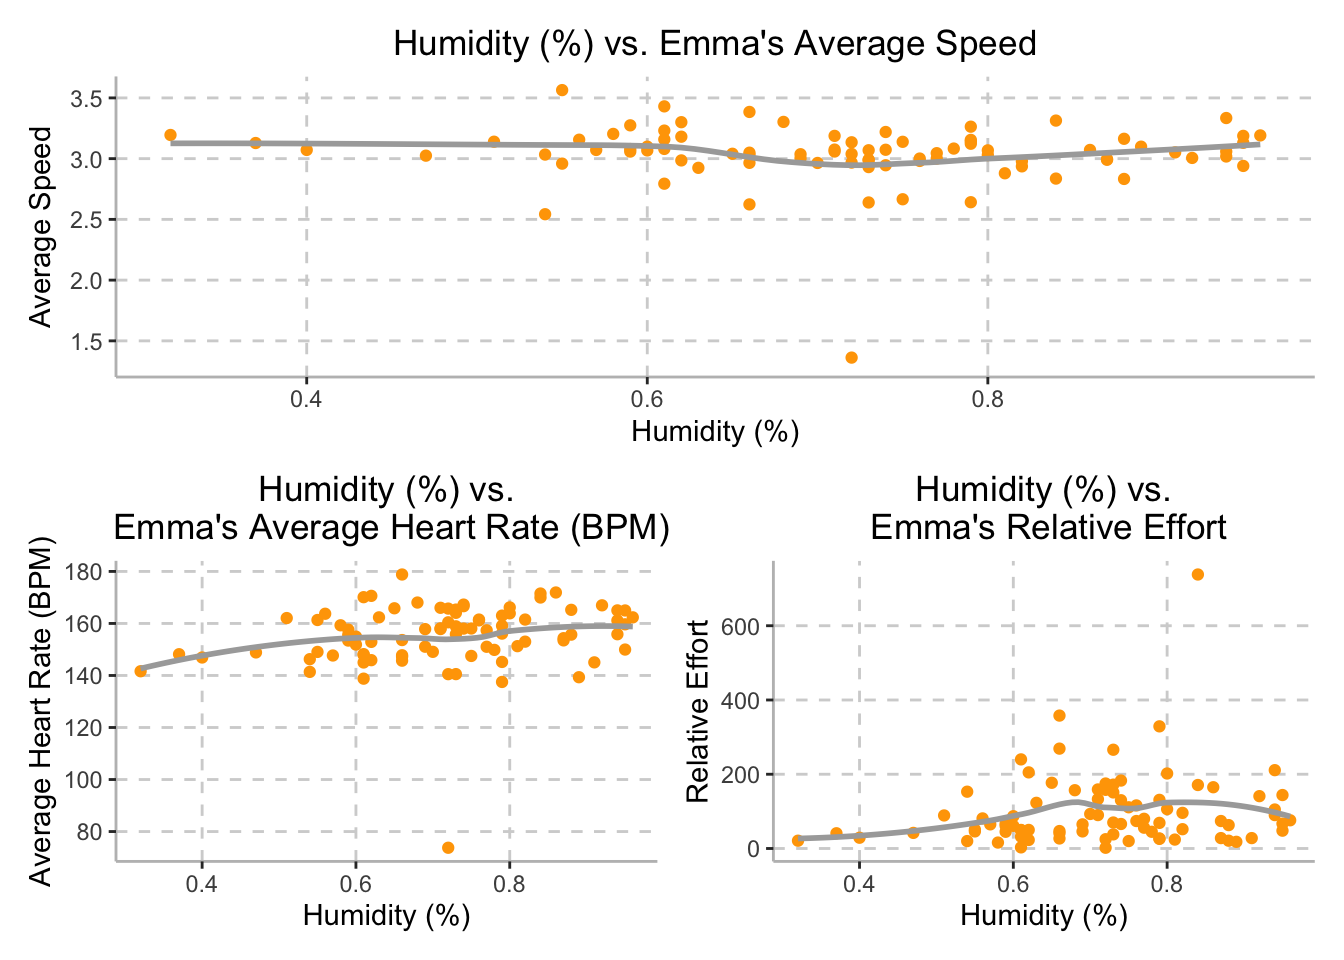
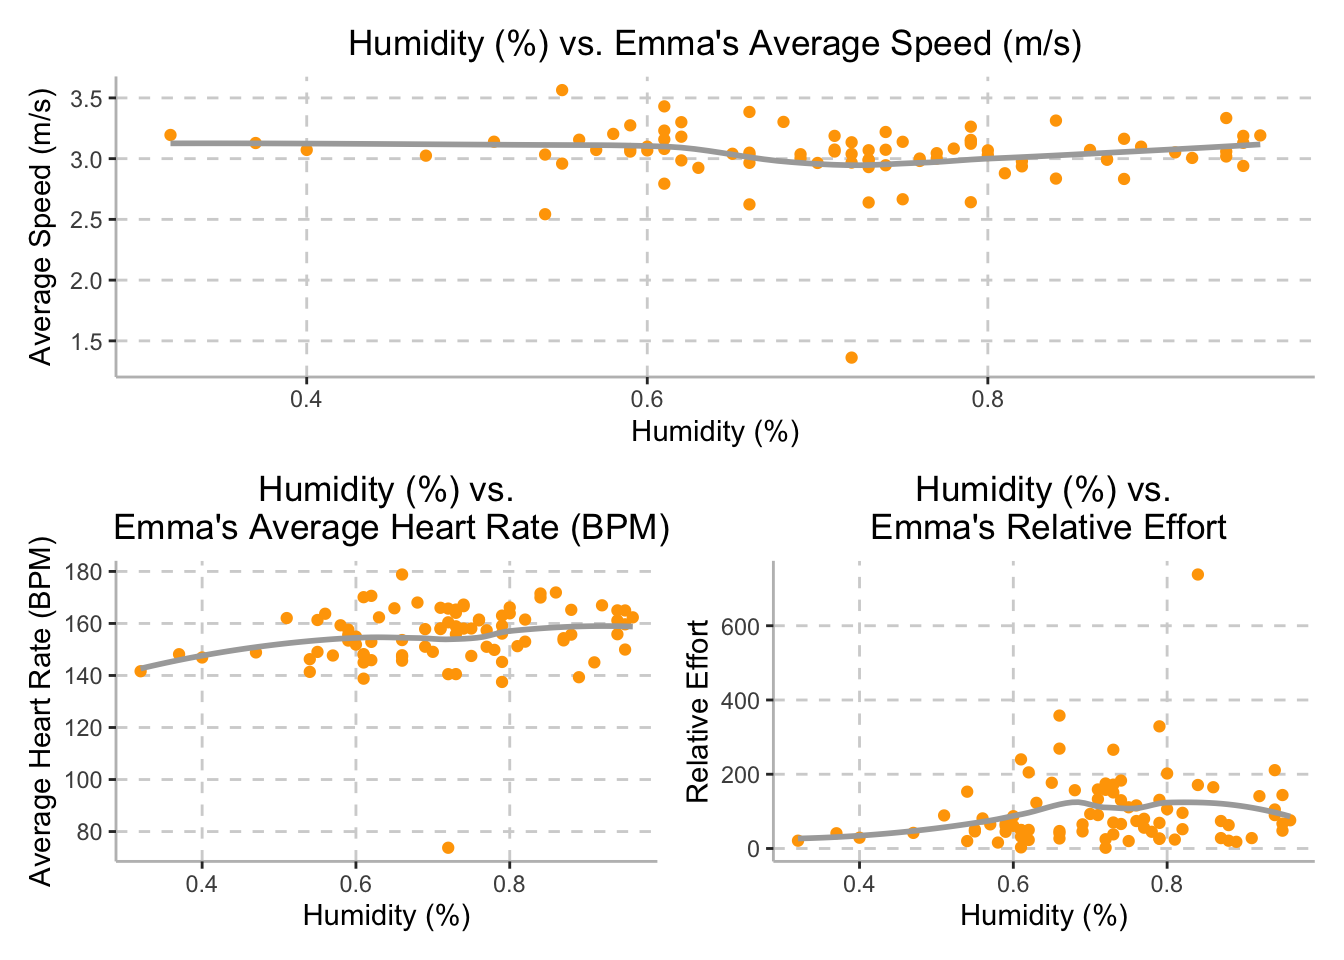
Described data, formatting edits

Changed region(s): [[0.25, 0.0312, 0.8125, 0.0625], [0.0, 0.0938, 0.0625, 0.375]]

diff --git a/final_report.html b/final_report.html
@@ -485,33 +485,35 @@ runs from July 23, 2020 to November 6, 2022 using the
 <code>read_csv</code> function.</p>
 <pre class="r"><code>training_raw &lt;- read_csv(&quot;activities/activities.csv&quot;) %&gt;% 
   janitor::clean_names()</code></pre>
-<p>The raw data contains blah blah</p>
+<p>The raw data contains <strong>335 observations</strong> and
+<strong>84 variables</strong>. Variables include data regarding activity
+date and type, trail/route information, equipment use, physical
+responses to training (heart rate, cadence, etc.), and weather. As is,
+these data were not tidy… Let’s tidy!</p>
 </div>
 <div id="data-cleaning" class="section level3">
-<h3><em>Data Cleaning</em></h3>
+<h3>Data Cleaning</h3>
 <p>After importing, the data frame was then cleaned to include
 activities from the start of marathon training (April 4, 2022) to the
 day of the New York City Marathon (November 6, 2022). The data was
-filtered to only include observations from ‘activity_type’ that were
-classified as ‘Run’. From this, the following 22 variables were selected
-to be included in this data set: activity_id, activity_date,
-activity_name, activity_description, elapsed_time_6, distance_7,
-max_heart_rate_8, relative_effort_9, max_speed, average_speed,
-elevation_gain, elevation_loss, max_grade, average_grade, max_cadence,
-average_cadence, average_heart_rate, calories, weather_temperature,
-dewpoint, humidity,and wind_speed.</p>
+filtered to only include observations from <code>activity_type</code>
+that were classified as ‘Run’. We selected 22 relevant variables
+(summarized below).</p>
 <p>Due to Emma’s marathon training beginning April 4th, 2022, the
-‘activity_id’ was used in order to filter any training prior to this.
-Following this, the variable ‘activity_date’ was separated into two
-variables:the date on which the run occurred (‘date’) as well as the
-time when the run began (‘time’). The ‘elapsed_time_6’ variable was
-converted from seconds to minutes (‘elapsed_time_min’). In addition to
-this, the variables names for distance_7, max_heart_rate_8, and
-relative_effort_9 were changed to distance_km, max_heart_rate, and
-relative_effort.</p>
-<p>A new data frame, ‘activities_summaries’ was created in order to
-include the written accounts from each of Emma’s runs, including
-variables ‘activity_name’ and ‘activity_description’.</p>
+<code>activity_id</code> was used in order to filter any training prior
+to this. Following this, the variable <code>activity_date</code> was
+separated into two variables: the date on which the run occurred
+(<code>date</code>) as well as the time when the run began
+(<code>time</code>). The <code>elapsed_time_6</code> variable was
+converted from seconds to minutes (<code>elapsed_time_min</code>). In
+addition to this, the variables names for <code>distance_7</code>,
+<code>max_heart_rate_8</code>, and <code>relative_effort_9</code> were
+changed to <code>distance_km</code>, <code>max_heart_rate</code>, and
+<code>relative_effort.</code></p>
+<p>A new data frame, <code>activities_summaries</code> was created in
+order to include the written accounts from each of Emma’s runs,
+including variables <code>activity_name</code> and
+<code>activity_description</code>.</p>
 <pre class="r"><code>training_summary = 
   training_raw %&gt;% 
   filter(activity_type == &quot;Run&quot;) %&gt;%
@@ -548,26 +550,41 @@ characteristics:</p>
 <li><code>activity_id</code>: Unique activity identifier</li>
 <li><code>date</code>: Date of activity (YYYY-MM-DD)</li>
 <li><code>time</code>: Time of activity</li>
-<li><code>distance_km</code>: Distance ran in km, mean = NA, range</li>
+<li><code>distance_km</code>: Distance ran (km), mean = 8.9215741,
+range</li>
 <li><code>elapsed_time_min</code>: Time spent running in minutes, mean =
+54.4388889</li>
+<li><code>max_speed</code>: Maximum running speed (meters/second), mean
+= 7.4808794</li>
+<li><code>average_speed</code>: Average speed (meters/second) during the
+activity, mean = 3.037298</li>
+<li><code>max_heart_rate</code>: Maximum heart rate (beats per minute)
+during the activity, mean = 176.4537037</li>
+<li><code>average_heart_rate</code>: Average heart rate during the
+activity, mean = 154.6877133</li>
+<li><code>relative_effort</code>: Relative effort calculated using heart
+rate data, mean = 95.462963</li>
+<li><code>elevation_gain</code>: Elevation gained during the activity,
+mean = 58.0976234</li>
+<li><code>elevation_loss</code>: Elevation lost during the activity,
+mean = NA</li>
+<li><code>max_grade</code>: Maximum grade during the activity, mean =
+24.2052355</li>
+<li><code>average_grade</code>: Average grade during the activity, mean
+= -3.0404352^{-4}</li>
+<li><code>max_cadence</code>: Maximum cadence (steps per minute) during
+the activity, mean = 89.1296296</li>
+<li><code>average_cadence</code>: Average cadence (steps per minute)
+during the activity, mean = 79.7518814</li>
+<li><code>calories</code>: Calories burned during the activity, mean =
+454.2592593</li>
+<li><code>weather_temperature</code>: Temperature (Celsius) during the
+activity, mean = 7.4808794</li>
+<li><code>dewpoint</code>: Dew point during the activity, mean = NA</li>
+<li><code>humidity</code>: Humidity (%) during the activity, mean =
 NA</li>
-<li><code>max_speed</code>: Maximum running pace minutes/km, mean =
-NA</li>
-<li><code>average_speed</code>:</li>
-<li><code>max_heart_rate</code>:</li>
-<li><code>average_heart_rate</code>:</li>
-<li><code>relative_effort</code>:</li>
-<li><code>elevation_gain</code>:</li>
-<li><code>elevation_loss</code>:</li>
-<li><code>max_grade</code>:</li>
-<li><code>average_grade</code>:</li>
-<li><code>max_cadence</code>:</li>
-<li><code>average_cadence</code>:</li>
-<li><code>calories</code>:</li>
-<li><code>weather_temperature</code>:</li>
-<li><code>dewpoint</code>:</li>
-<li><code>humidity</code>:</li>
-<li><code>wind_speed</code>:</li>
+<li><code>wind_speed</code>: Wind speed in meters per second during the
+activity, mean = NA</li>
 </ul>
 </div>
 </div>
@@ -637,7 +654,7 @@ the NYCM.</p>
 <p>The density plot above illustrates the mileage at which Emma run’s
 most often during her training period. The plot peaks at a distance of
 approximately 7km, indicating that 7km is the length of most of Emma’s
-runs during heer training period.</p>
+runs during her training period.</p>
 </div>
 <div id="temperature-vs.-average-speed" class="section level3">
 <h3>Temperature vs. Average Speed</h3>
@@ -646,9 +663,9 @@ runs during heer training period.</p>
   geom_point(color = c(&quot;#FFA500&quot;)) +
   geom_smooth(se = FALSE, color = &quot;dark grey&quot;) + 
     labs(
-    title = &quot;Temperature (C) vs. Emma&#39;s Average Speed&quot;,
+    title = &quot;Temperature (C) vs. Emma&#39;s Average Speed (m/s)&quot;,
     x = &quot;Temperature (C)&quot;, 
-    y = &quot;Average Speed&quot;) + 
+    y = &quot;Average Speed (m/s)&quot;) + 
   scale_x_continuous(breaks = scales::pretty_breaks(n = 5)) + 
   scale_y_continuous(breaks = scales::pretty_breaks(n = 5)) +
   theme(axis.line = element_line(color = &quot;grey&quot;), 
@@ -672,7 +689,7 @@ Celsius and 27.89 degrees Celsius.</p>
   geom_smooth(se = FALSE, color = &quot;dark grey&quot;) + 
     labs(
     x = &quot;Temperature (C)&quot;, 
-    y = &quot;Average Speed&quot;) + 
+    y = &quot;Average Speed (m/s)&quot;) + 
   scale_x_continuous(breaks = scales::pretty_breaks(n = 5)) + 
   scale_y_continuous(breaks = scales::pretty_breaks(n = 5)) +
   theme(axis.line = element_line(color = &quot;grey&quot;), 
@@ -680,7 +697,7 @@ Celsius and 27.89 degrees Celsius.</p>
         legend.position = &quot;none&quot;, 
         panel.grid.major = element_line(color = &quot;light grey&quot;, linetype = &quot;dashed&quot;),
         plot.title = element_text(hjust = 0.5)) + 
-  ggtitle(&quot;Temperature (C) vs. Emma&#39;s Average Speed&quot;)
+  ggtitle(&quot;Temperature (C) vs. Emma&#39;s Average Speed (m/s)&quot;)
 
 temp_avg_hrt = 
   tidy_training %&gt;% 
@@ -749,7 +766,7 @@ relative effort averaged around 150.</p>
   geom_smooth(se = FALSE, color = &quot;dark grey&quot;) + 
     labs(
     x = &quot;Humidity (%)&quot;, 
-    y = &quot;Average Speed&quot;) + 
+    y = &quot;Average Speed (m/s)&quot;) + 
   scale_x_continuous(breaks = scales::pretty_breaks(n = 5)) + 
   scale_y_continuous(breaks = scales::pretty_breaks(n = 5)) +
   theme(axis.line = element_line(color = &quot;grey&quot;), 
@@ -757,7 +774,7 @@ relative effort averaged around 150.</p>
         legend.position = &quot;none&quot;, 
         panel.grid.major = element_line(color = &quot;light grey&quot;, linetype = &quot;dashed&quot;),
         plot.title = element_text(hjust = 0.5)) + 
-  ggtitle(&quot;Humidity (%) vs. Emma&#39;s Average Speed&quot;)
+  ggtitle(&quot;Humidity (%) vs. Emma&#39;s Average Speed (m/s)&quot;)
 
 humid_avg_hrt = 
   tidy_training %&gt;% 
@@ -886,8 +903,8 @@ marathon_geo %&gt;%
                              &quot;&lt;br&gt;Cadence:&quot;, cadence,
                             &quot;&lt;br&gt;Altitude:&quot;, enhanced_altitude)) %&gt;% 
   addProviderTiles(providers$CartoDB.Positron)</code></pre>
-<div id="htmlwidget-df3c8a1f573dae842df6" style="width:672px;height:480px;" class="leaflet html-widget"></div>
-<script type="application/json" data-for="htmlwidget-df3c8a1f573dae842df6">{"x":{"options":{"crs":{"crsClass":"L.CRS.EPSG3857","code":null,"proj4def":null,"projectedBounds":null,"options":{}}},"calls":[{"method":"addTiles","args":["https://{s}.tile.openstreetmap.org/{z}/{x}/{y}.png",null,null,{"minZoom":0,"maxZoom":18,"tileSize":256,"subdomains":"abc","errorTileUrl":"","tms":false,"noWrap":false,"zoomOffset":0,"zoomReverse":false,"opacity":1,"zIndex":1,"detectRetina":false,"attribution":"&copy; <a href=\"https://openstreetmap.org\">OpenStreetMap<\/a> contributors, <a href=\"https://creativecommons.org/licenses/by-sa/2.0/\">CC-BY-SA<\/a>"}]},{"method":"addCircleMarkers","args":[[40.6104348705628,40.7042159239592,40.7164656348145,40.728277819874,40.740826228118,40.7491534880795,40.7558571904419,40.7777123779879,40.7903228550433,40.8023561141454,40.6192627834549,40.8118997489457,40.8102504578455,40.8001325806757,40.7882020822061,40.7763461387941,40.766959590201,40.770384692587,null,40.6444014760309,40.6557787290627,40.6671305434582,40.6794894834151,40.6876716191673,40.6921380146503,40.6043989839213],[-74.0346232919979,-73.9608535200188,-73.9589246148317,-73.9524508345938,-73.9525773309703,-73.9450712946021,-73.9528505667326,-73.9487948260759,-73.939629788009,-73.9298666665563,-74.0288426203294,-73.928230043045,-73.9394263029525,-73.9473303446644,-73.9557053759358,-73.966941702771,-73.9756988926056,-73.9788563751305,null,-74.0148388704929,-74.0029969833497,-73.9916699058621,-73.9818277620092,-73.9710569978992,-73.9571167532644,-74.0517789316213],7,null,null,{"interactive":true,"className":"","stroke":true,"color":"orange","weight":5,"opacity":0.5,"fill":true,"fillColor":"orange","fillOpacity":0.75},null,null,["Mile: 1 <br>Speed: 7.16634034234234 <br>HR: 169.648648648649 <br>Cadence: 79.945945945946 <br>Altitude: 55.3783783783784","Mile: 10 <br>Speed: 5.91045904545455 <br>HR: 173.840909090909 <br>Cadence: 78.7045454545455 <br>Altitude: 33.7590909090909","Mile: 11 <br>Speed: 6.16624646456693 <br>HR: 177.094488188976 <br>Cadence: 82.5984251968504 <br>Altitude: 16.0708661417323","Mile: 12 <br>Speed: 6.49777232743363 <br>HR: 177.964601769911 <br>Cadence: 80.9469026548673 <br>Altitude: 18.8495575221239","Mile: 13 <br>Speed: 6.69400279464286 <br>HR: 178.732142857143 <br>Cadence: 82.5803571428571 <br>Altitude: 12.6339285714286","Mile: 14 <br>Speed: 5.6681484084507 <br>HR: 176.633802816901 <br>Cadence: 82.3943661971831 <br>Altitude: 32.8197183098592","Mile: 15 <br>Speed: 3.31547001376147 <br>HR: 139.56880733945 <br>Cadence: 79.0596330275229 <br>Altitude: 24.3201834862385","Mile: 17 <br>Speed: 6.22130553389831 <br>HR: 171.686440677966 <br>Cadence: 82.7966101694915 <br>Altitude: 42.0186440677966","Mile: 18 <br>Speed: 5.64340035384615 <br>HR: 150.307692307692 <br>Cadence: 72.3923076923077 <br>Altitude: 23.2507692307692","Mile: 19 <br>Speed: 5.27883065625 <br>HR: 145.89375 <br>Cadence: 71.54375 <br>Altitude: 24.7425","Mile: 2 <br>Speed: 6.9439558440367 <br>HR: 173 <br>Cadence: 80.8623853211009 <br>Altitude: 28.9633027522936","Mile: 20 <br>Speed: 5.93609676258993 <br>HR: 160.647482014388 <br>Cadence: 81.4244604316547 <br>Altitude: 13.6474820143885","Mile: 21 <br>Speed: 6.25834048854962 <br>HR: 159.206106870229 <br>Cadence: 81.8015267175573 <br>Altitude: 27.1435114503817","Mile: 22 <br>Speed: 5.80403946616541 <br>HR: 167.353383458647 <br>Cadence: 80.4586466165414 <br>Altitude: 46.0736842105263","Mile: 23 <br>Speed: 5.55055204511278 <br>HR: 172.233082706767 <br>Cadence: 76.6842105263158 <br>Altitude: 73.8285714285714","Mile: 24 <br>Speed: 5.43006440875912 <br>HR: 173.737226277372 <br>Cadence: 71.2116788321168 <br>Altitude: 26.043795620438","Mile: 25 <br>Speed: 5.92434019254658 <br>HR: 176.484472049689 <br>Cadence: 80.0683229813665 <br>Altitude: 7.53540372670807","Mile: 26-Finish <br>Speed: 6.85462368518519 <br>HR: 183.296296296296 <br>Cadence: 86.1481481481482 <br>Altitude: 19.3185185185185","Mile: 3 <br>Speed: NA <br>HR: 174.938053097345 <br>Cadence: 80.4070796460177 <br>Altitude: 33.7256637168142","Mile: 4 <br>Speed: 6.94028204672897 <br>HR: 175.383177570093 <br>Cadence: 80.4485981308411 <br>Altitude: 27.985046728972","Mile: 5 <br>Speed: 6.79859621052632 <br>HR: 172.69298245614 <br>Cadence: 81.3245614035088 <br>Altitude: 14.8368421052632","Mile: 6 <br>Speed: 6.84808492982456 <br>HR: 175.333333333333 <br>Cadence: 81.780701754386 <br>Altitude: 26.0666666666667","Mile: 7 <br>Speed: 6.65007464705882 <br>HR: 175.352941176471 <br>Cadence: 79.4705882352941 <br>Altitude: 22.6436974789916","Mile: 8 <br>Speed: 6.82514246280992 <br>HR: 177.280991735537 <br>Cadence: 81.7851239669422 <br>Altitude: 42.1074380165289","Mile: 9 <br>Speed: 6.75896050862069 <br>HR: 177.534482758621 <br>Cadence: 82.5948275862069 <br>Altitude: 37.3586206896552","Mile: Start <br>Speed: 6.53191371774194 <br>HR: 168.548387096774 <br>Cadence: 80.9112903225806 <br>Altitude: 68.2774193548387"],null,["1","10","11","12","13","14","15","17","18","19","2","20","21","22","23","24","25","26-Finish","3","4","5","6","7","8","9","Start"],{"interactive":false,"permanent":false,"direction":"auto","opacity":1,"offset":[0,0],"textsize":"10px","textOnly":false,"className":"","sticky":true},null]},{"method":"addProviderTiles","args":["CartoDB.Positron",null,null,{"errorTileUrl":"","noWrap":false,"detectRetina":false}]}],"limits":{"lat":[40.6043989839213,40.8118997489457],"lng":[-74.0517789316213,-73.928230043045]}},"evals":[],"jsHooks":[]}</script>
+<div id="htmlwidget-0f07be8e751d6cec8391" style="width:672px;height:480px;" class="leaflet html-widget"></div>
+<script type="application/json" data-for="htmlwidget-0f07be8e751d6cec8391">{"x":{"options":{"crs":{"crsClass":"L.CRS.EPSG3857","code":null,"proj4def":null,"projectedBounds":null,"options":{}}},"calls":[{"method":"addTiles","args":["https://{s}.tile.openstreetmap.org/{z}/{x}/{y}.png",null,null,{"minZoom":0,"maxZoom":18,"tileSize":256,"subdomains":"abc","errorTileUrl":"","tms":false,"noWrap":false,"zoomOffset":0,"zoomReverse":false,"opacity":1,"zIndex":1,"detectRetina":false,"attribution":"&copy; <a href=\"https://openstreetmap.org\">OpenStreetMap<\/a> contributors, <a href=\"https://creativecommons.org/licenses/by-sa/2.0/\">CC-BY-SA<\/a>"}]},{"method":"addCircleMarkers","args":[[40.6104348705628,40.7042159239592,40.7164656348145,40.728277819874,40.740826228118,40.7491534880795,40.7558571904419,40.7777123779879,40.7903228550433,40.8023561141454,40.6192627834549,40.8118997489457,40.8102504578455,40.8001325806757,40.7882020822061,40.7763461387941,40.766959590201,40.770384692587,null,40.6444014760309,40.6557787290627,40.6671305434582,40.6794894834151,40.6876716191673,40.6921380146503,40.6043989839213],[-74.0346232919979,-73.9608535200188,-73.9589246148317,-73.9524508345938,-73.9525773309703,-73.9450712946021,-73.9528505667326,-73.9487948260759,-73.939629788009,-73.9298666665563,-74.0288426203294,-73.928230043045,-73.9394263029525,-73.9473303446644,-73.9557053759358,-73.966941702771,-73.9756988926056,-73.9788563751305,null,-74.0148388704929,-74.0029969833497,-73.9916699058621,-73.9818277620092,-73.9710569978992,-73.9571167532644,-74.0517789316213],7,null,null,{"interactive":true,"className":"","stroke":true,"color":"orange","weight":5,"opacity":0.5,"fill":true,"fillColor":"orange","fillOpacity":0.75},null,null,["Mile: 1 <br>Speed: 7.16634034234234 <br>HR: 169.648648648649 <br>Cadence: 79.945945945946 <br>Altitude: 55.3783783783784","Mile: 10 <br>Speed: 5.91045904545455 <br>HR: 173.840909090909 <br>Cadence: 78.7045454545455 <br>Altitude: 33.7590909090909","Mile: 11 <br>Speed: 6.16624646456693 <br>HR: 177.094488188976 <br>Cadence: 82.5984251968504 <br>Altitude: 16.0708661417323","Mile: 12 <br>Speed: 6.49777232743363 <br>HR: 177.964601769911 <br>Cadence: 80.9469026548673 <br>Altitude: 18.8495575221239","Mile: 13 <br>Speed: 6.69400279464286 <br>HR: 178.732142857143 <br>Cadence: 82.5803571428571 <br>Altitude: 12.6339285714286","Mile: 14 <br>Speed: 5.6681484084507 <br>HR: 176.633802816901 <br>Cadence: 82.3943661971831 <br>Altitude: 32.8197183098592","Mile: 15 <br>Speed: 3.31547001376147 <br>HR: 139.56880733945 <br>Cadence: 79.0596330275229 <br>Altitude: 24.3201834862385","Mile: 17 <br>Speed: 6.22130553389831 <br>HR: 171.686440677966 <br>Cadence: 82.7966101694915 <br>Altitude: 42.0186440677966","Mile: 18 <br>Speed: 5.64340035384615 <br>HR: 150.307692307692 <br>Cadence: 72.3923076923077 <br>Altitude: 23.2507692307692","Mile: 19 <br>Speed: 5.27883065625 <br>HR: 145.89375 <br>Cadence: 71.54375 <br>Altitude: 24.7425","Mile: 2 <br>Speed: 6.9439558440367 <br>HR: 173 <br>Cadence: 80.8623853211009 <br>Altitude: 28.9633027522936","Mile: 20 <br>Speed: 5.93609676258993 <br>HR: 160.647482014388 <br>Cadence: 81.4244604316547 <br>Altitude: 13.6474820143885","Mile: 21 <br>Speed: 6.25834048854962 <br>HR: 159.206106870229 <br>Cadence: 81.8015267175573 <br>Altitude: 27.1435114503817","Mile: 22 <br>Speed: 5.80403946616541 <br>HR: 167.353383458647 <br>Cadence: 80.4586466165414 <br>Altitude: 46.0736842105263","Mile: 23 <br>Speed: 5.55055204511278 <br>HR: 172.233082706767 <br>Cadence: 76.6842105263158 <br>Altitude: 73.8285714285714","Mile: 24 <br>Speed: 5.43006440875912 <br>HR: 173.737226277372 <br>Cadence: 71.2116788321168 <br>Altitude: 26.043795620438","Mile: 25 <br>Speed: 5.92434019254658 <br>HR: 176.484472049689 <br>Cadence: 80.0683229813665 <br>Altitude: 7.53540372670807","Mile: 26-Finish <br>Speed: 6.85462368518519 <br>HR: 183.296296296296 <br>Cadence: 86.1481481481482 <br>Altitude: 19.3185185185185","Mile: 3 <br>Speed: NA <br>HR: 174.938053097345 <br>Cadence: 80.4070796460177 <br>Altitude: 33.7256637168142","Mile: 4 <br>Speed: 6.94028204672897 <br>HR: 175.383177570093 <br>Cadence: 80.4485981308411 <br>Altitude: 27.985046728972","Mile: 5 <br>Speed: 6.79859621052632 <br>HR: 172.69298245614 <br>Cadence: 81.3245614035088 <br>Altitude: 14.8368421052632","Mile: 6 <br>Speed: 6.84808492982456 <br>HR: 175.333333333333 <br>Cadence: 81.780701754386 <br>Altitude: 26.0666666666667","Mile: 7 <br>Speed: 6.65007464705882 <br>HR: 175.352941176471 <br>Cadence: 79.4705882352941 <br>Altitude: 22.6436974789916","Mile: 8 <br>Speed: 6.82514246280992 <br>HR: 177.280991735537 <br>Cadence: 81.7851239669422 <br>Altitude: 42.1074380165289","Mile: 9 <br>Speed: 6.75896050862069 <br>HR: 177.534482758621 <br>Cadence: 82.5948275862069 <br>Altitude: 37.3586206896552","Mile: Start <br>Speed: 6.53191371774194 <br>HR: 168.548387096774 <br>Cadence: 80.9112903225806 <br>Altitude: 68.2774193548387"],null,["1","10","11","12","13","14","15","17","18","19","2","20","21","22","23","24","25","26-Finish","3","4","5","6","7","8","9","Start"],{"interactive":false,"permanent":false,"direction":"auto","opacity":1,"offset":[0,0],"textsize":"10px","textOnly":false,"className":"","sticky":true},null]},{"method":"addProviderTiles","args":["CartoDB.Positron",null,null,{"errorTileUrl":"","noWrap":false,"detectRetina":false}]}],"limits":{"lat":[40.6043989839213,40.8118997489457],"lng":[-74.0517789316213,-73.928230043045]}},"evals":[],"jsHooks":[]}</script>
 <p>The leaflet plot above demonstrates Emma’s NYCM racing path. Each
 marker indicates the mile number and average speed (meters/sec), heart
 rate, cadence, and altitude for that mile. As a note, Strava failed to
